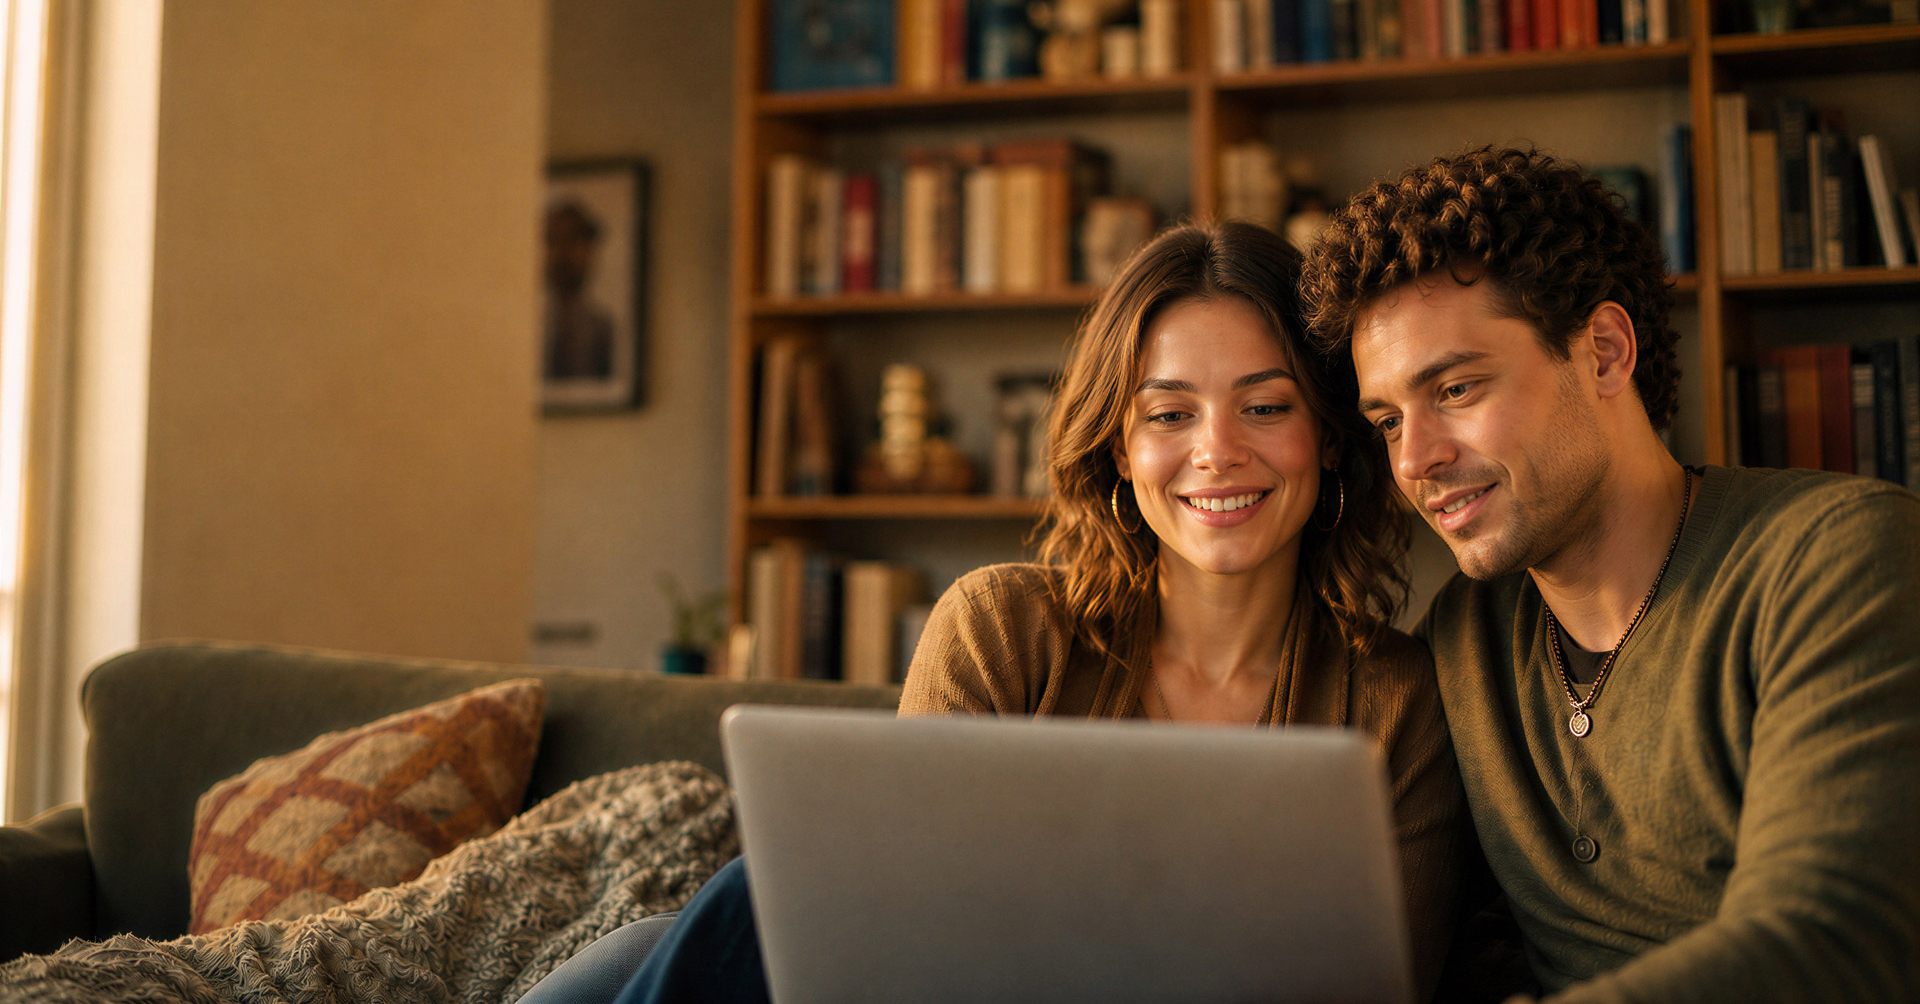
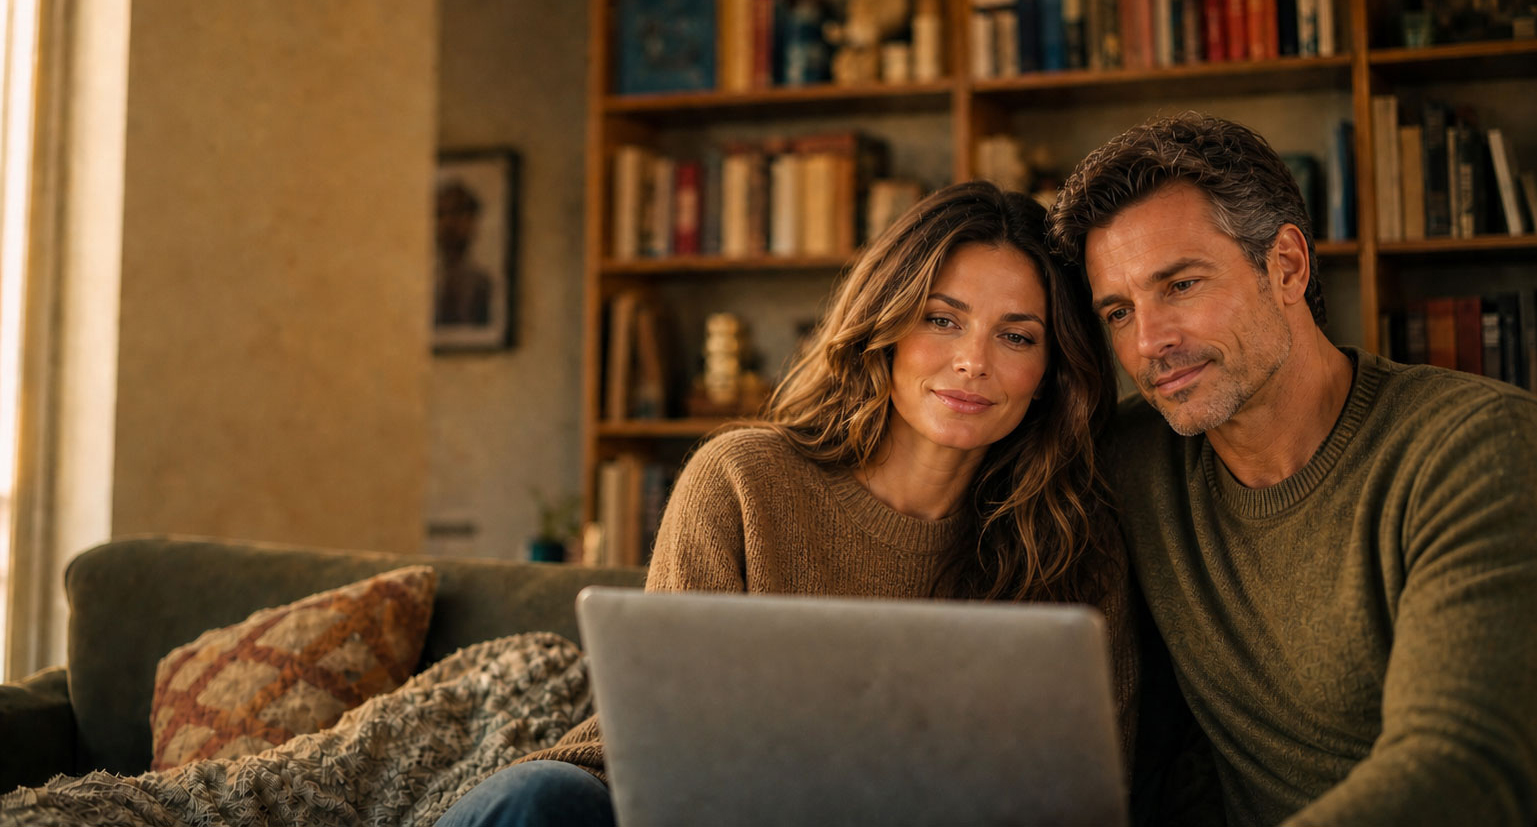
Add individual counseling to location pages' What We Work On lists
Adds Individual Counseling as the first item across texas, colorado, and
louisiana pages, and swaps in a dedicated hero image for the Texas section.

diff --git a/texas.html b/texas.html
@@ -153,11 +153,15 @@
   <section class="content-block content-block--reverse">
     <div class="wrap content-block__grid">
       <div class="content-block__image reveal">
-        <img class="content-block__img" src="Images/texas-work-on.jpg" alt="" role="presentation" loading="lazy">
+        <img class="content-block__img" src="Images/what-we-work-on-texas.jpg" alt="" role="presentation" loading="lazy">
       </div>
       <div class="content-block__text reveal">
         <h2 class="section-heading">What We Work On</h2>
         <ul class="plain-list">
+          <li>
+            <span class="plain-list__icon" aria-hidden="true"><svg viewBox="0 0 24 24" width="18" height="18" fill="none" stroke="currentColor" stroke-width="2"><path d="M5 12h14M13 6l6 6-6 6" stroke-linecap="round" stroke-linejoin="round"/></svg></span>
+            <span><strong>Individual Counseling</strong> &mdash; working on a relationship without your partner in the room, or on a pattern that keeps repeating. <a class="text-link" href="individual-therapy.html">Learn more <span aria-hidden="true">&rarr;</span></a></span>
+          </li>
           <li>
             <span class="plain-list__icon" aria-hidden="true"><svg viewBox="0 0 24 24" width="18" height="18" fill="none" stroke="currentColor" stroke-width="2"><path d="M5 12h14M13 6l6 6-6 6" stroke-linecap="round" stroke-linejoin="round"/></svg></span>
             <span><strong>Sex Therapy</strong> &mdash; low desire, mismatched libido, intimacy concerns, and sexual self-doubt. <a class="text-link" href="sex-therapy.html">Learn more <span aria-hidden="true">&rarr;</span></a></span>

diff --git a/colorado.html b/colorado.html
@@ -160,6 +160,10 @@
         <ul class="plain-list">
           <li>
             <span class="plain-list__icon" aria-hidden="true"><svg viewBox="0 0 24 24" width="18" height="18" fill="none" stroke="currentColor" stroke-width="2"><path d="M5 12h14M13 6l6 6-6 6" stroke-linecap="round" stroke-linejoin="round"/></svg></span>
+            <span><strong>Individual Counseling</strong> &mdash; working on a relationship without your partner in the room, or on a pattern that keeps repeating. <a class="text-link" href="individual-therapy.html">Learn more <span aria-hidden="true">&rarr;</span></a></span>
+          </li>
+          <li>
+            <span class="plain-list__icon" aria-hidden="true"><svg viewBox="0 0 24 24" width="18" height="18" fill="none" stroke="currentColor" stroke-width="2"><path d="M5 12h14M13 6l6 6-6 6" stroke-linecap="round" stroke-linejoin="round"/></svg></span>
             <span><strong>Sex Therapy</strong> &mdash; low desire, mismatched libido, intimacy concerns, and sexual self-doubt. <a class="text-link" href="sex-therapy.html">Learn more <span aria-hidden="true">&rarr;</span></a></span>
           </li>
           <li>

diff --git a/louisiana.html b/louisiana.html
@@ -160,6 +160,10 @@
         <ul class="plain-list">
           <li>
             <span class="plain-list__icon" aria-hidden="true"><svg viewBox="0 0 24 24" width="18" height="18" fill="none" stroke="currentColor" stroke-width="2"><path d="M5 12h14M13 6l6 6-6 6" stroke-linecap="round" stroke-linejoin="round"/></svg></span>
+            <span><strong>Individual Counseling</strong> &mdash; working on a relationship without your partner in the room, or on a pattern that keeps repeating. <a class="text-link" href="individual-therapy.html">Learn more <span aria-hidden="true">&rarr;</span></a></span>
+          </li>
+          <li>
+            <span class="plain-list__icon" aria-hidden="true"><svg viewBox="0 0 24 24" width="18" height="18" fill="none" stroke="currentColor" stroke-width="2"><path d="M5 12h14M13 6l6 6-6 6" stroke-linecap="round" stroke-linejoin="round"/></svg></span>
             <span><strong>Sex Therapy</strong> &mdash; low desire, mismatched libido, intimacy concerns, and sexual self-doubt. <a class="text-link" href="sex-therapy.html">Learn more <span aria-hidden="true">&rarr;</span></a></span>
           </li>
           <li>
